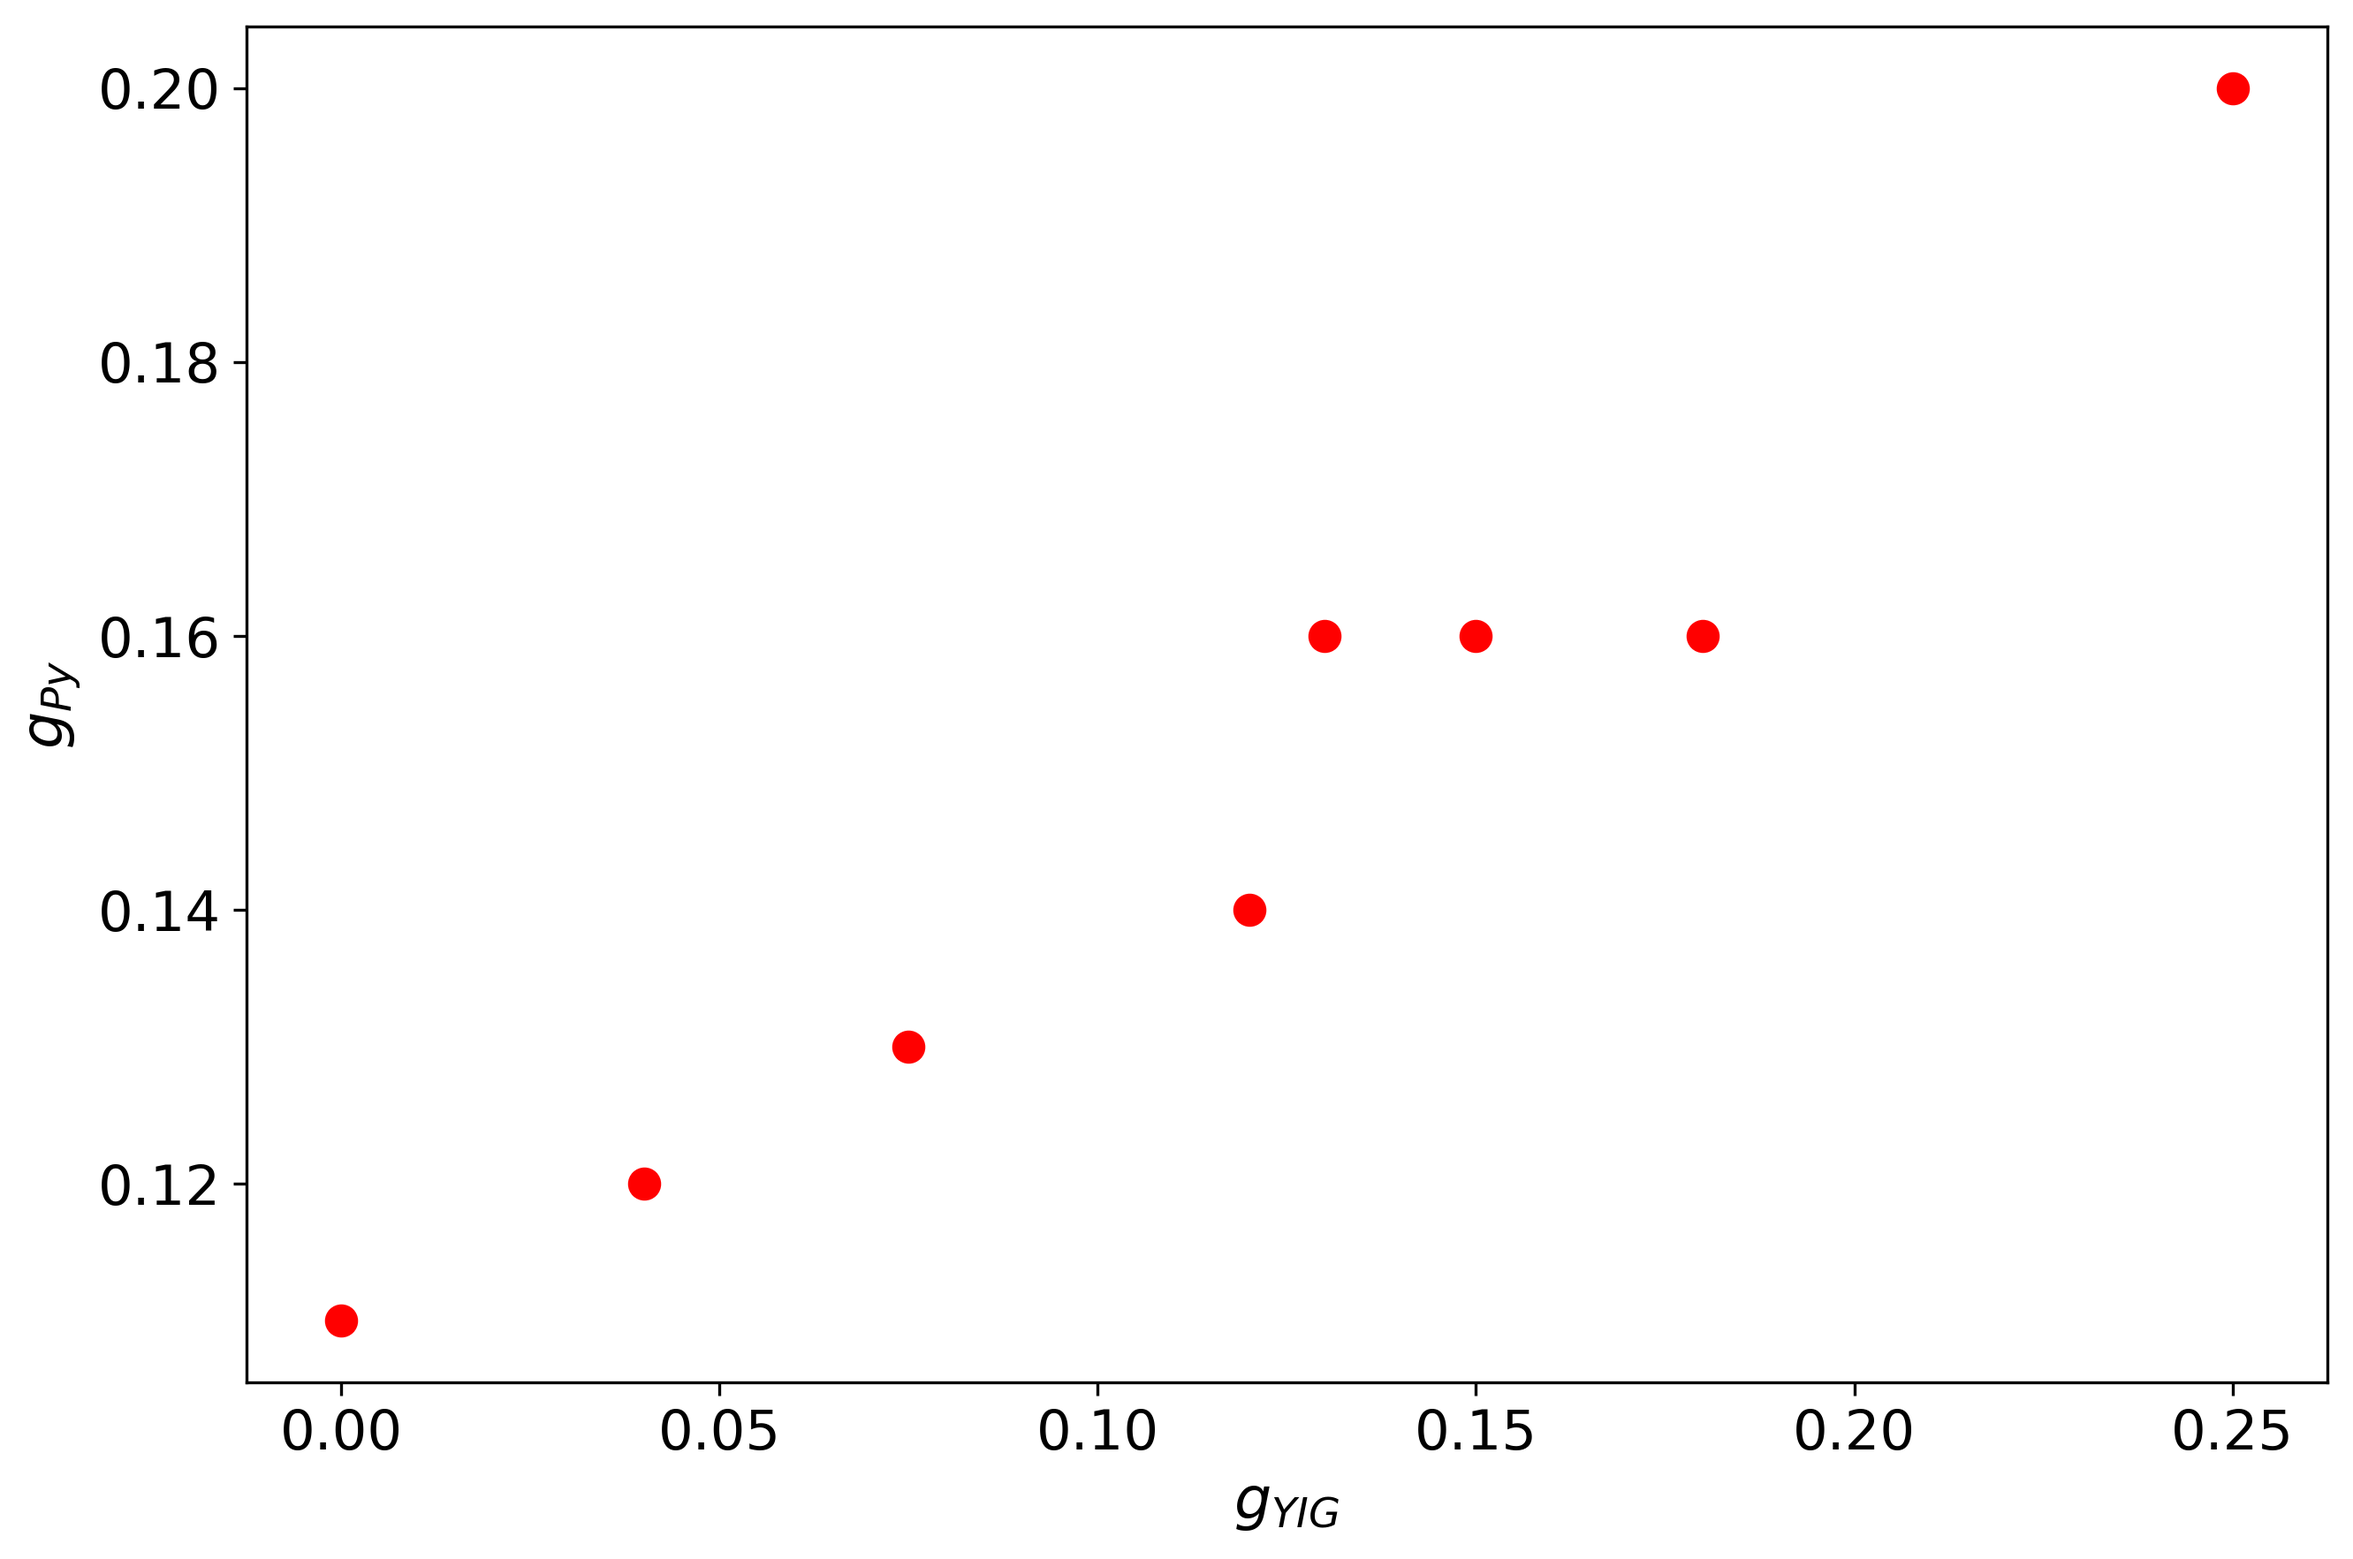
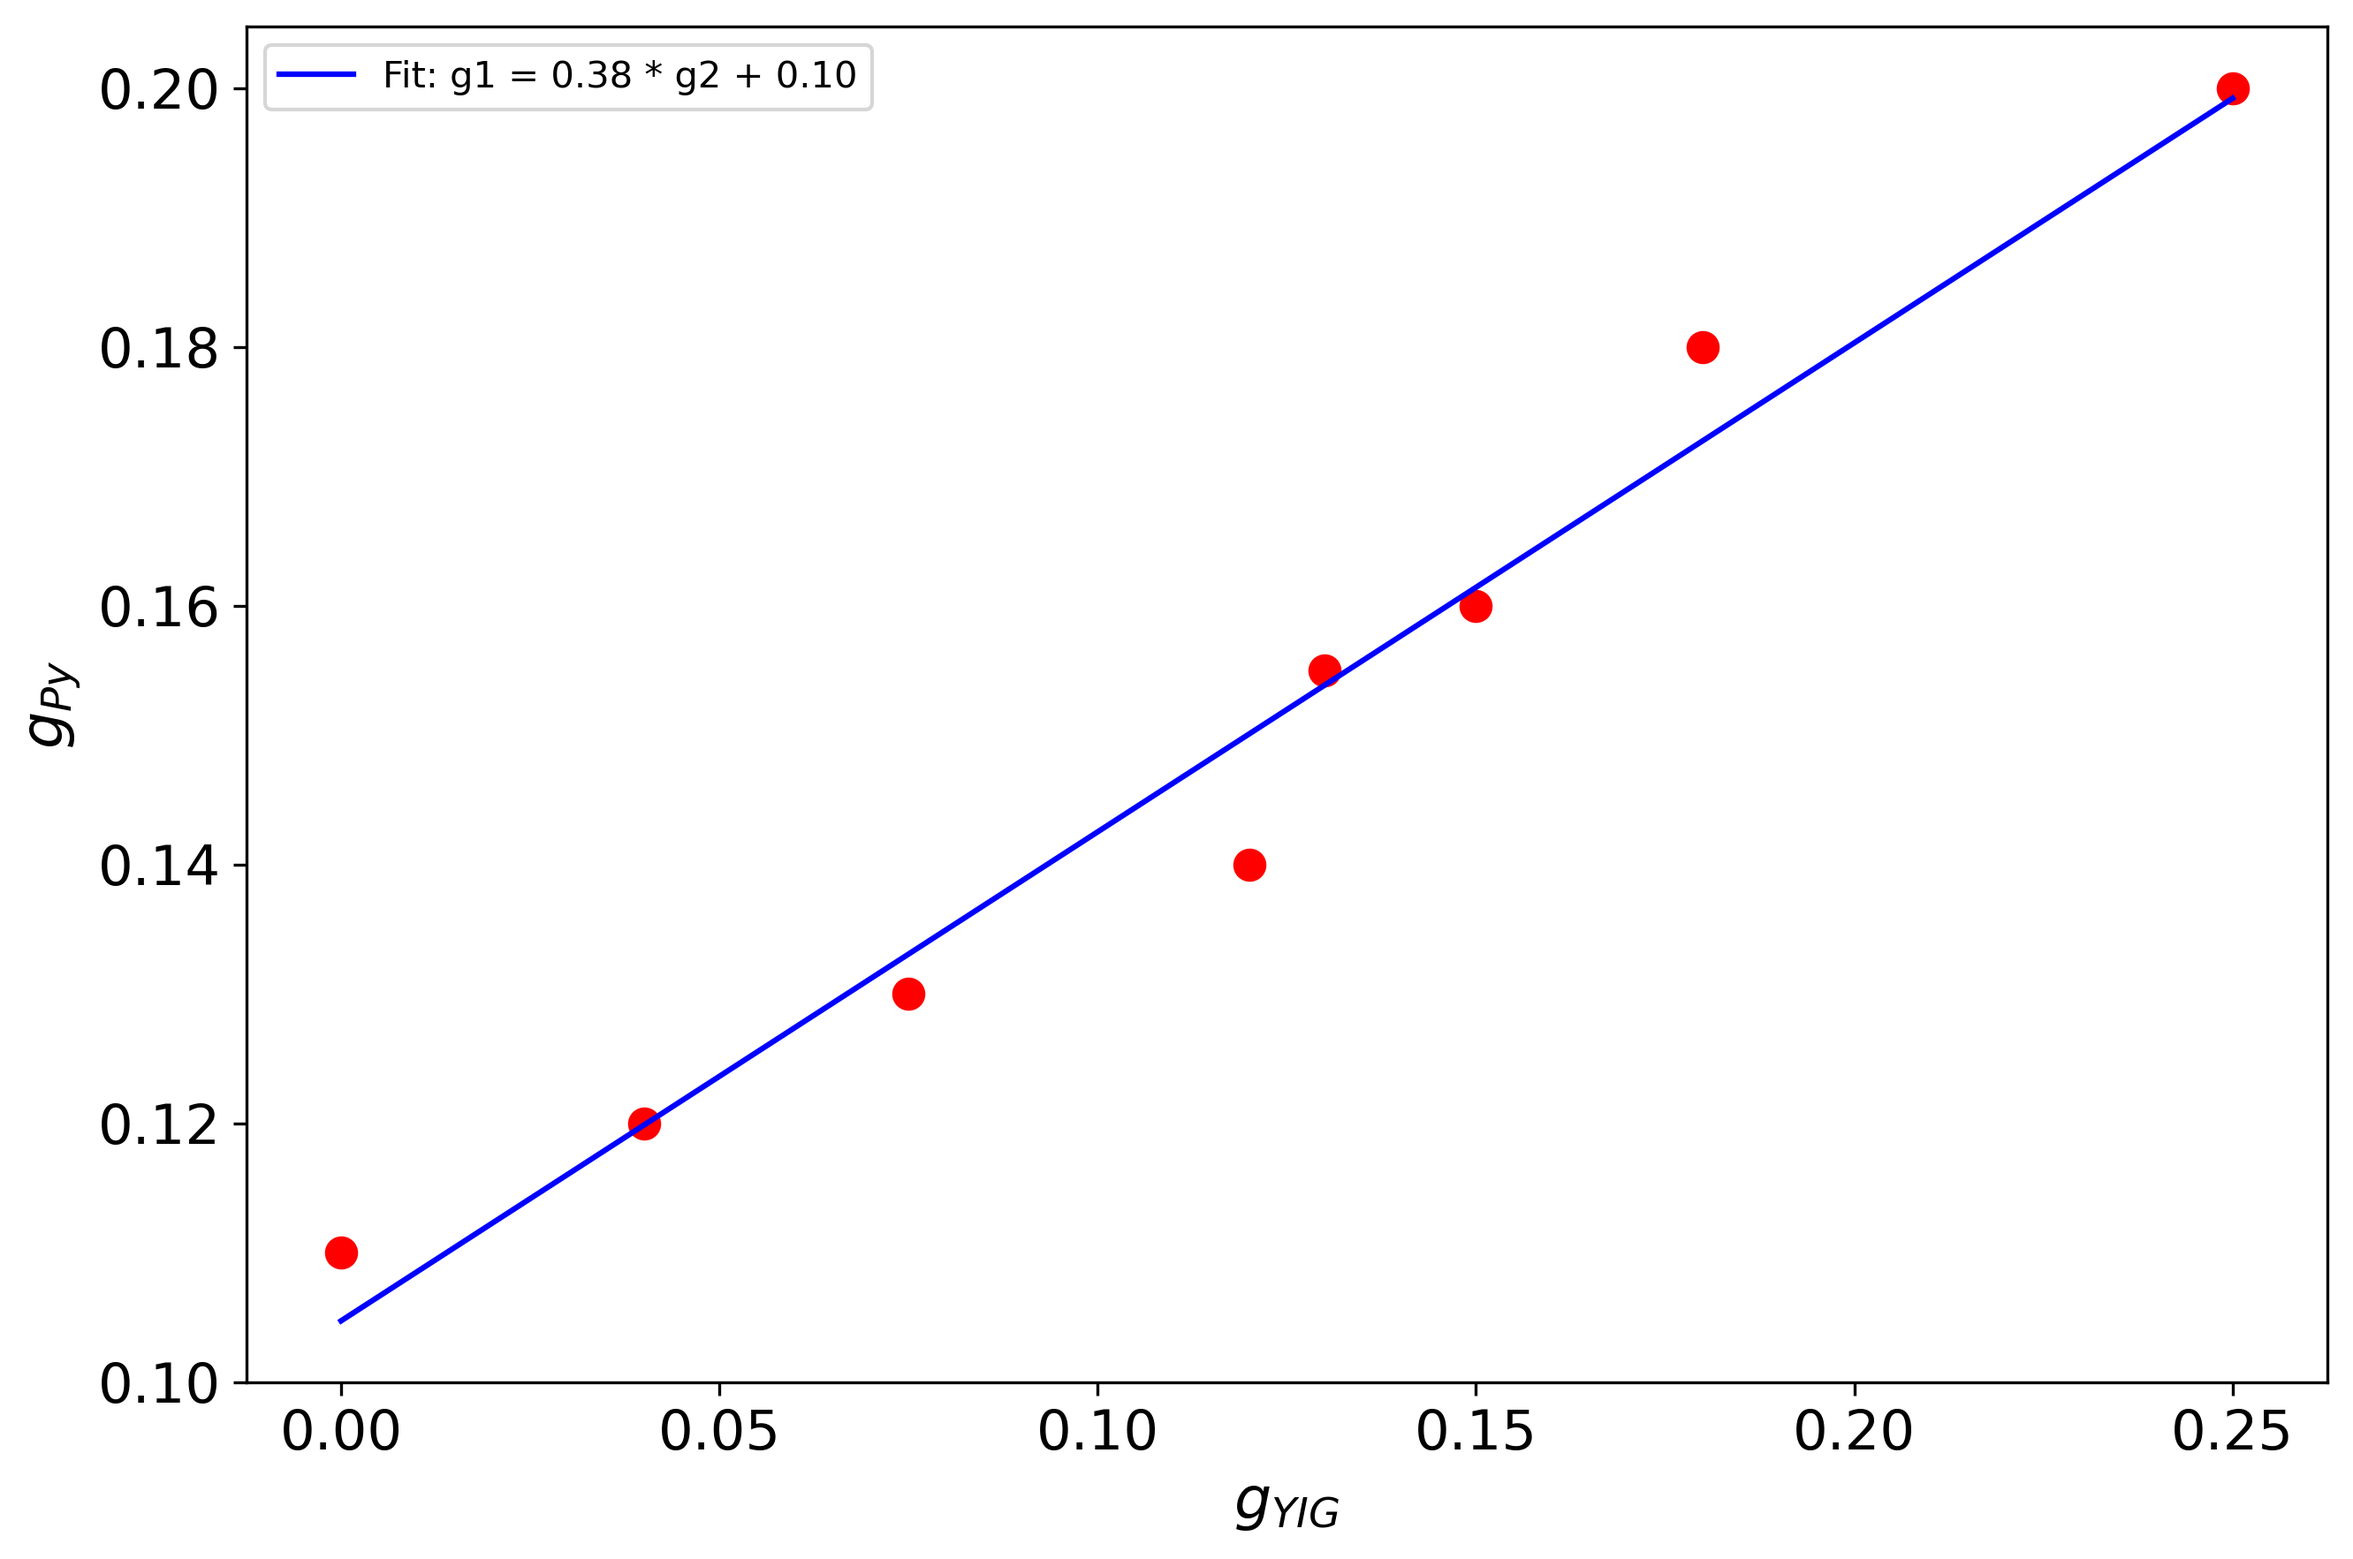
update

diff --git a/g vs t/g1g2_vs_t_plotter_saturation.py b/g vs t/g1g2_vs_t_plotter_saturation.py
@@ -125,21 +125,34 @@ g2_fit_vals = g2_model.predict(t.reshape(-1, 1))
 r2_g2 = g2_model.score(t.reshape(-1, 1), g2)
 
 # g1 data and fit
-plt.scatter(t, g1, color='blue', label='g1 data')
-plt.plot(t, g1_fit_vals, 'b--', label=f'g1 fit: y = {g1_model.coef_[0]:.2f}x + {g1_model.intercept_:.2f} (R^2 = {r2_g1:.2f})')
+plt.scatter(t, g1, color='blue', label='$g_{Py}$ data')
+plt.plot(t, g1_fit_vals, 'b--', label=f'$g_{{Py}}$ fit: y = {g1_model.coef_[0]:.2f}x + {g1_model.intercept_:.2f} (R^2 = {r2_g1:.2f})')
 
-# g2 data and fit
-plt.scatter(t, g2, color='red', label='g2 data')
-plt.plot(t, g2_fit_vals, 'r--', label=f'g2 fit: y = {g2_model.coef_[0]:.2f}x + {g2_model.intercept_:.2f} (R^2 = {r2_g2:.2f})')
-# plt.plot(t_fit, g2_fit_plot, 'r--', label=f'g2 fit: y = {params_g2[0]:.2f} * (1 - exp(-{params_g2[1]:.2f} * x)) + {params_g2[2]:.2f}')
-
-# Customize plot
 plt.xlabel('t',fontsize=16)
-plt.ylabel('g values',fontsize=16)
+plt.ylabel('$g_{Py}$ values',fontsize=16)
 plt.tick_params(axis='both', which='major', labelsize=15)
 plt.tick_params(axis='both', which='minor', labelsize=8)
 # plt.title(f'Saturation Fits for g1 and g2 (R^2: g1 = {r2_g1:.2f}, g2 = {r2_g2:.2f})')
 plt.legend()
 # plt.grid()
 # plt.show()
-plt.savefig('images\\g_vs_t.png', dpi=300, bbox_inches='tight')
+plt.savefig('tentative\\images\\gpy_vs_t.png', dpi=300, bbox_inches='tight')
+plt.close()
+
+plt.figure(figsize=(9, 6))
+
+# g2 data and fit
+plt.scatter(t, g2, color='red', label='$g_{YIG}$ data')
+plt.plot(t, g2_fit_vals, 'r--', label=f'$g_{{YIG}}$ fit: y = {g2_model.coef_[0]:.2f}x + {g2_model.intercept_:.2f} (R^2 = {r2_g2:.2f})')
+# plt.plot(t_fit, g2_fit_plot, 'r--', label=f'g2 fit: y = {params_g2[0]:.2f} * (1 - exp(-{params_g2[1]:.2f} * x)) + {params_g2[2]:.2f}')
+
+# Customize plot
+plt.xlabel('t',fontsize=16)
+plt.ylabel('$g_{YIG}$ values',fontsize=16)
+plt.tick_params(axis='both', which='major', labelsize=15)
+plt.tick_params(axis='both', which='minor', labelsize=8)
+# plt.title(f'Saturation Fits for g1 and g2 (R^2: g1 = {r2_g1:.2f}, g2 = {r2_g2:.2f})')
+plt.legend()
+# plt.grid()
+# plt.show()
+plt.savefig('tentative\\images\\gyig_vs_t.png', dpi=300, bbox_inches='tight')

diff --git a/g vs t/g2_vs_g1.py b/g vs t/g2_vs_g1.py
@@ -1,5 +1,6 @@
 import numpy as np
 import pandas as pd
+from scipy.stats import linregress
 import matplotlib.pyplot as plt
 
 filename = 'combined_plots_params.csv'
@@ -10,6 +11,16 @@ t = data['t'].values
 g1 = data['g1'].values
 g2 = data['g2'].values
 
+# Fit g1 vs g2 to a line
+
+slope, intercept, r_value, p_value, std_err = linregress(g2, g1)
+
+# Print the fit parameters
+print(f"Slope: {slope}, Intercept: {intercept}, R-squared: {r_value**2}")
+
+# Plot the fitted line
+
+
 plt.figure(figsize=(9, 6))
 
 plt.plot(g2,g1,'r.',markersize=16)
@@ -17,8 +28,11 @@ plt.xlabel("$g_{YIG}$",fontsize=16)
 plt.ylabel("$g_{Py}$",fontsize=16)
 plt.tick_params(axis='both', which='major', labelsize=15)
 plt.tick_params(axis='both', which='minor', labelsize=8)
+plt.plot(g2, slope * g2 + intercept, 'b-', label=f'Fit: g1 = {slope:.2f} * g2 + {intercept:.2f}')
+# plt.legend(fontsize=12)
+plt.legend()
 plt.tight_layout()
-plt.savefig("images\\g2_vs_g1.png",dpi=300,bbox_inches='tight')
+plt.savefig("tentative\\images\\g2_vs_g1.png",dpi=300,bbox_inches='tight')
 plt.close()
 
 # exit()
